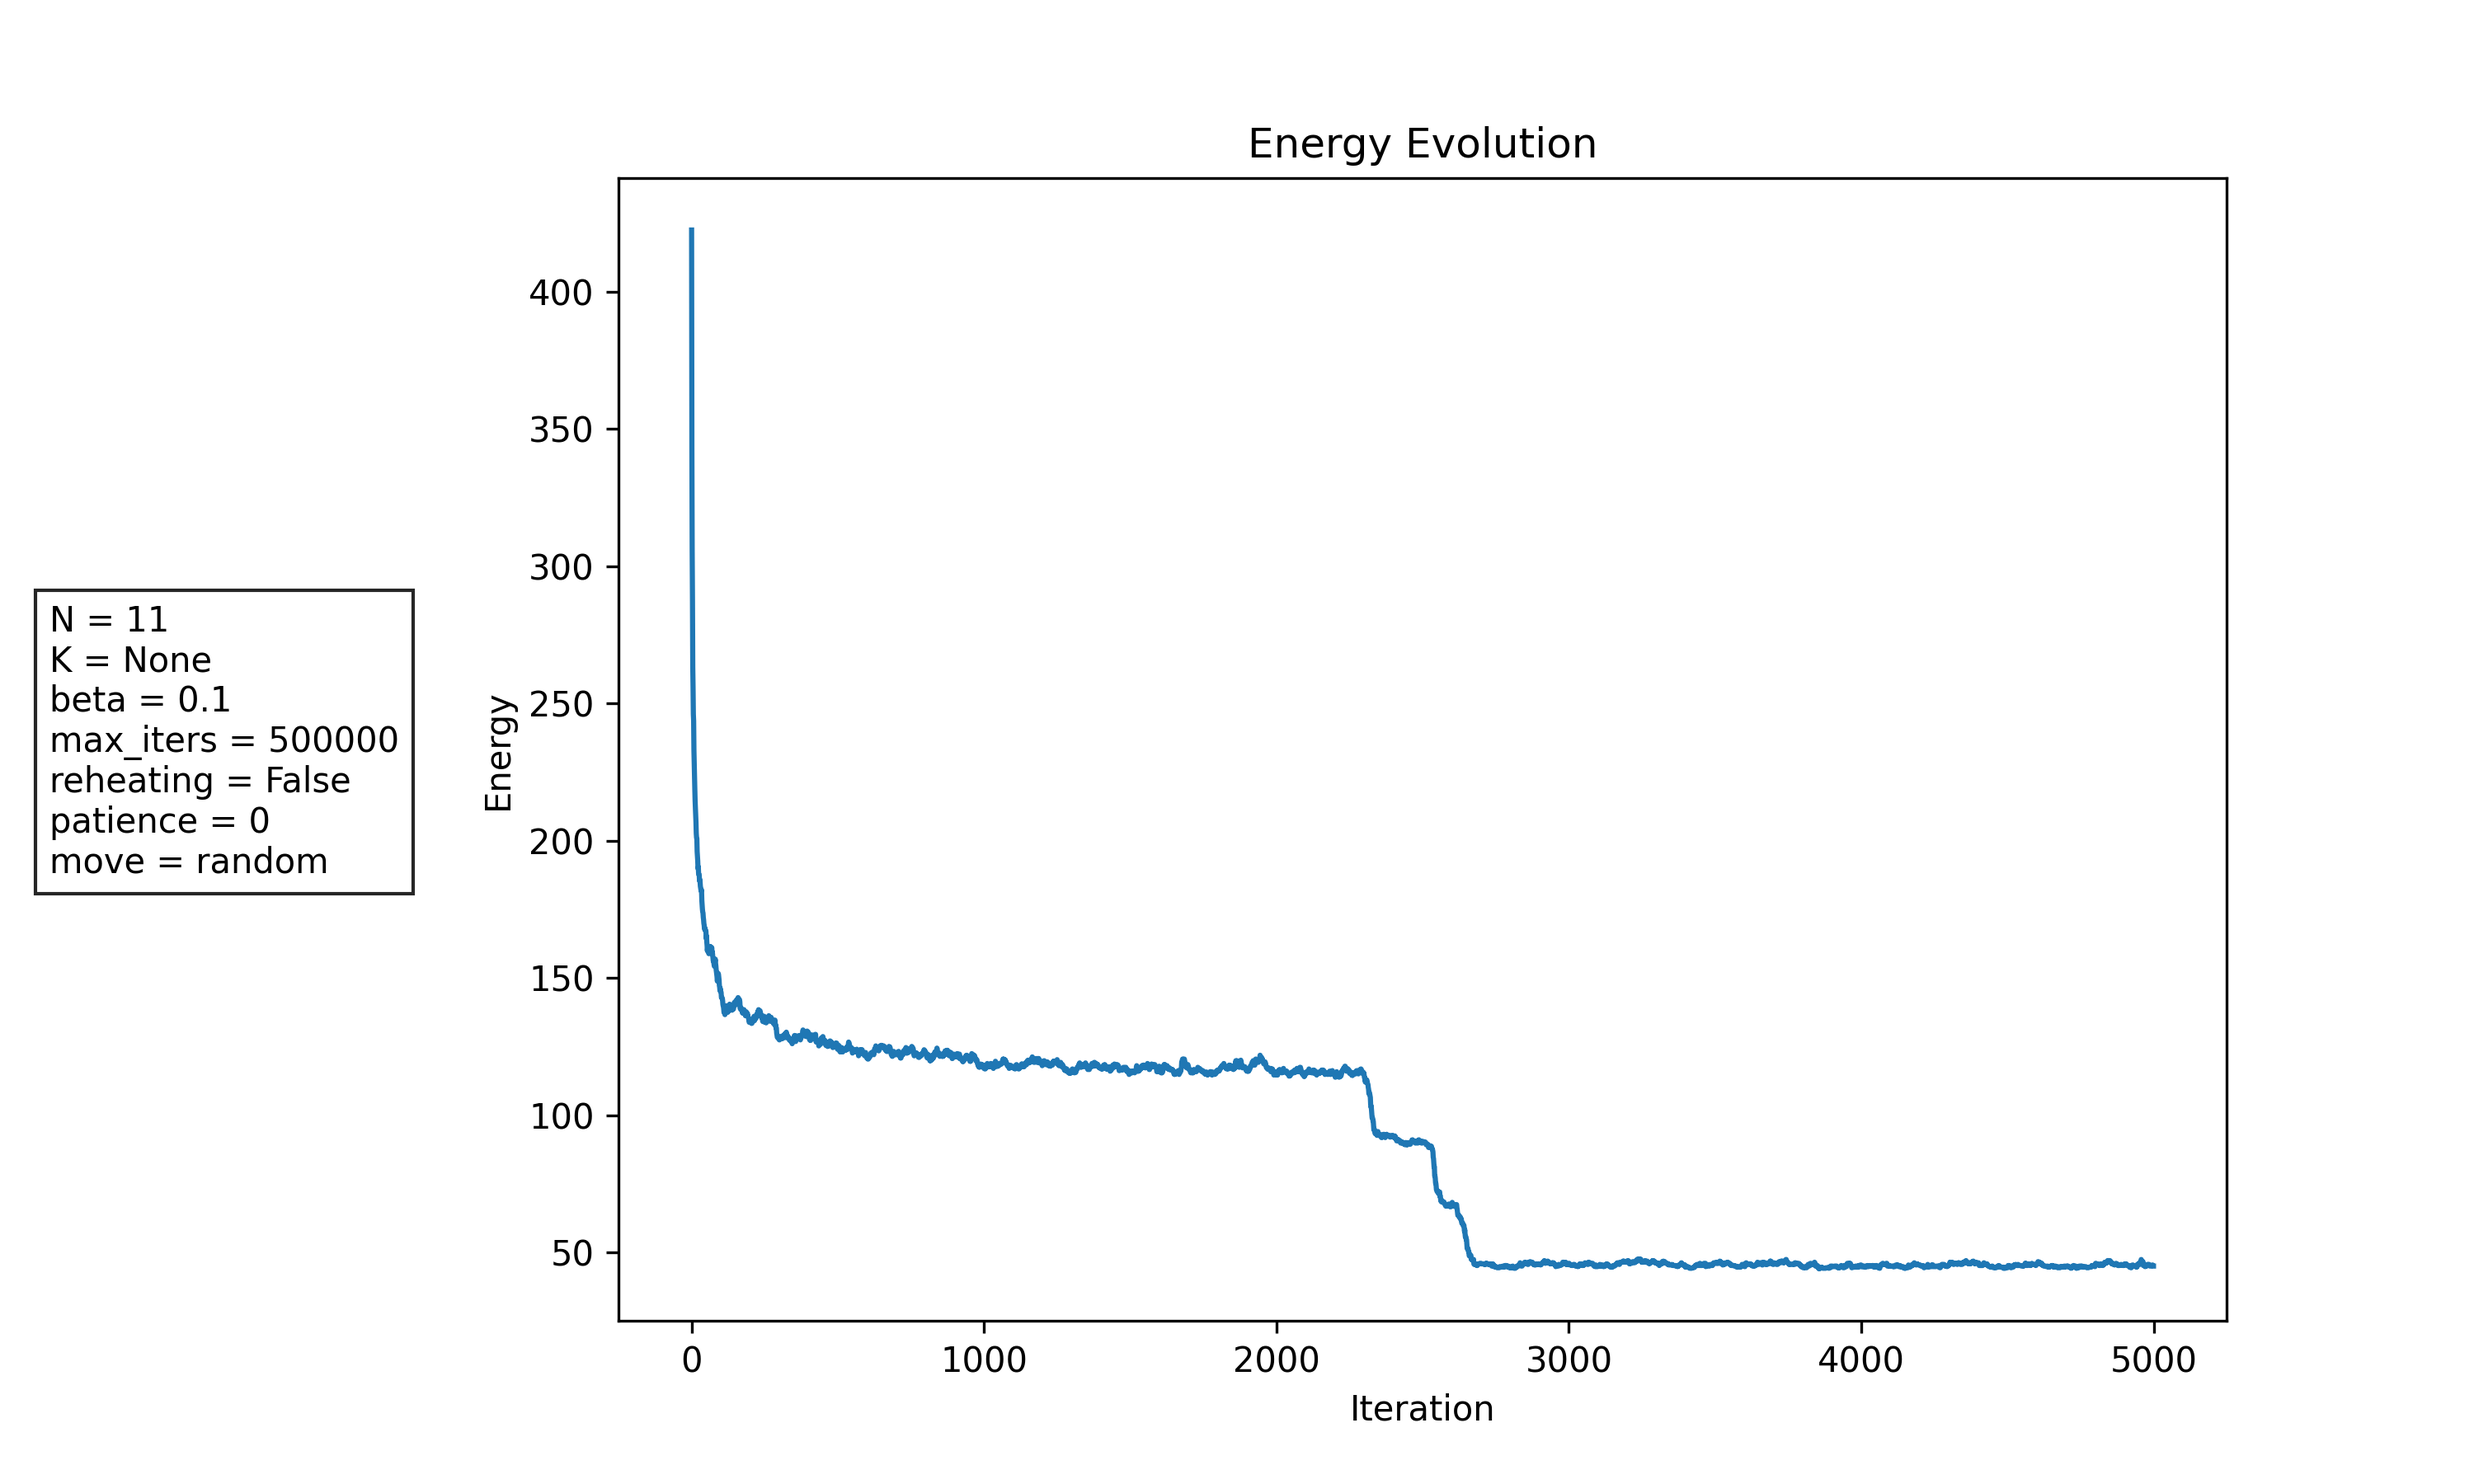
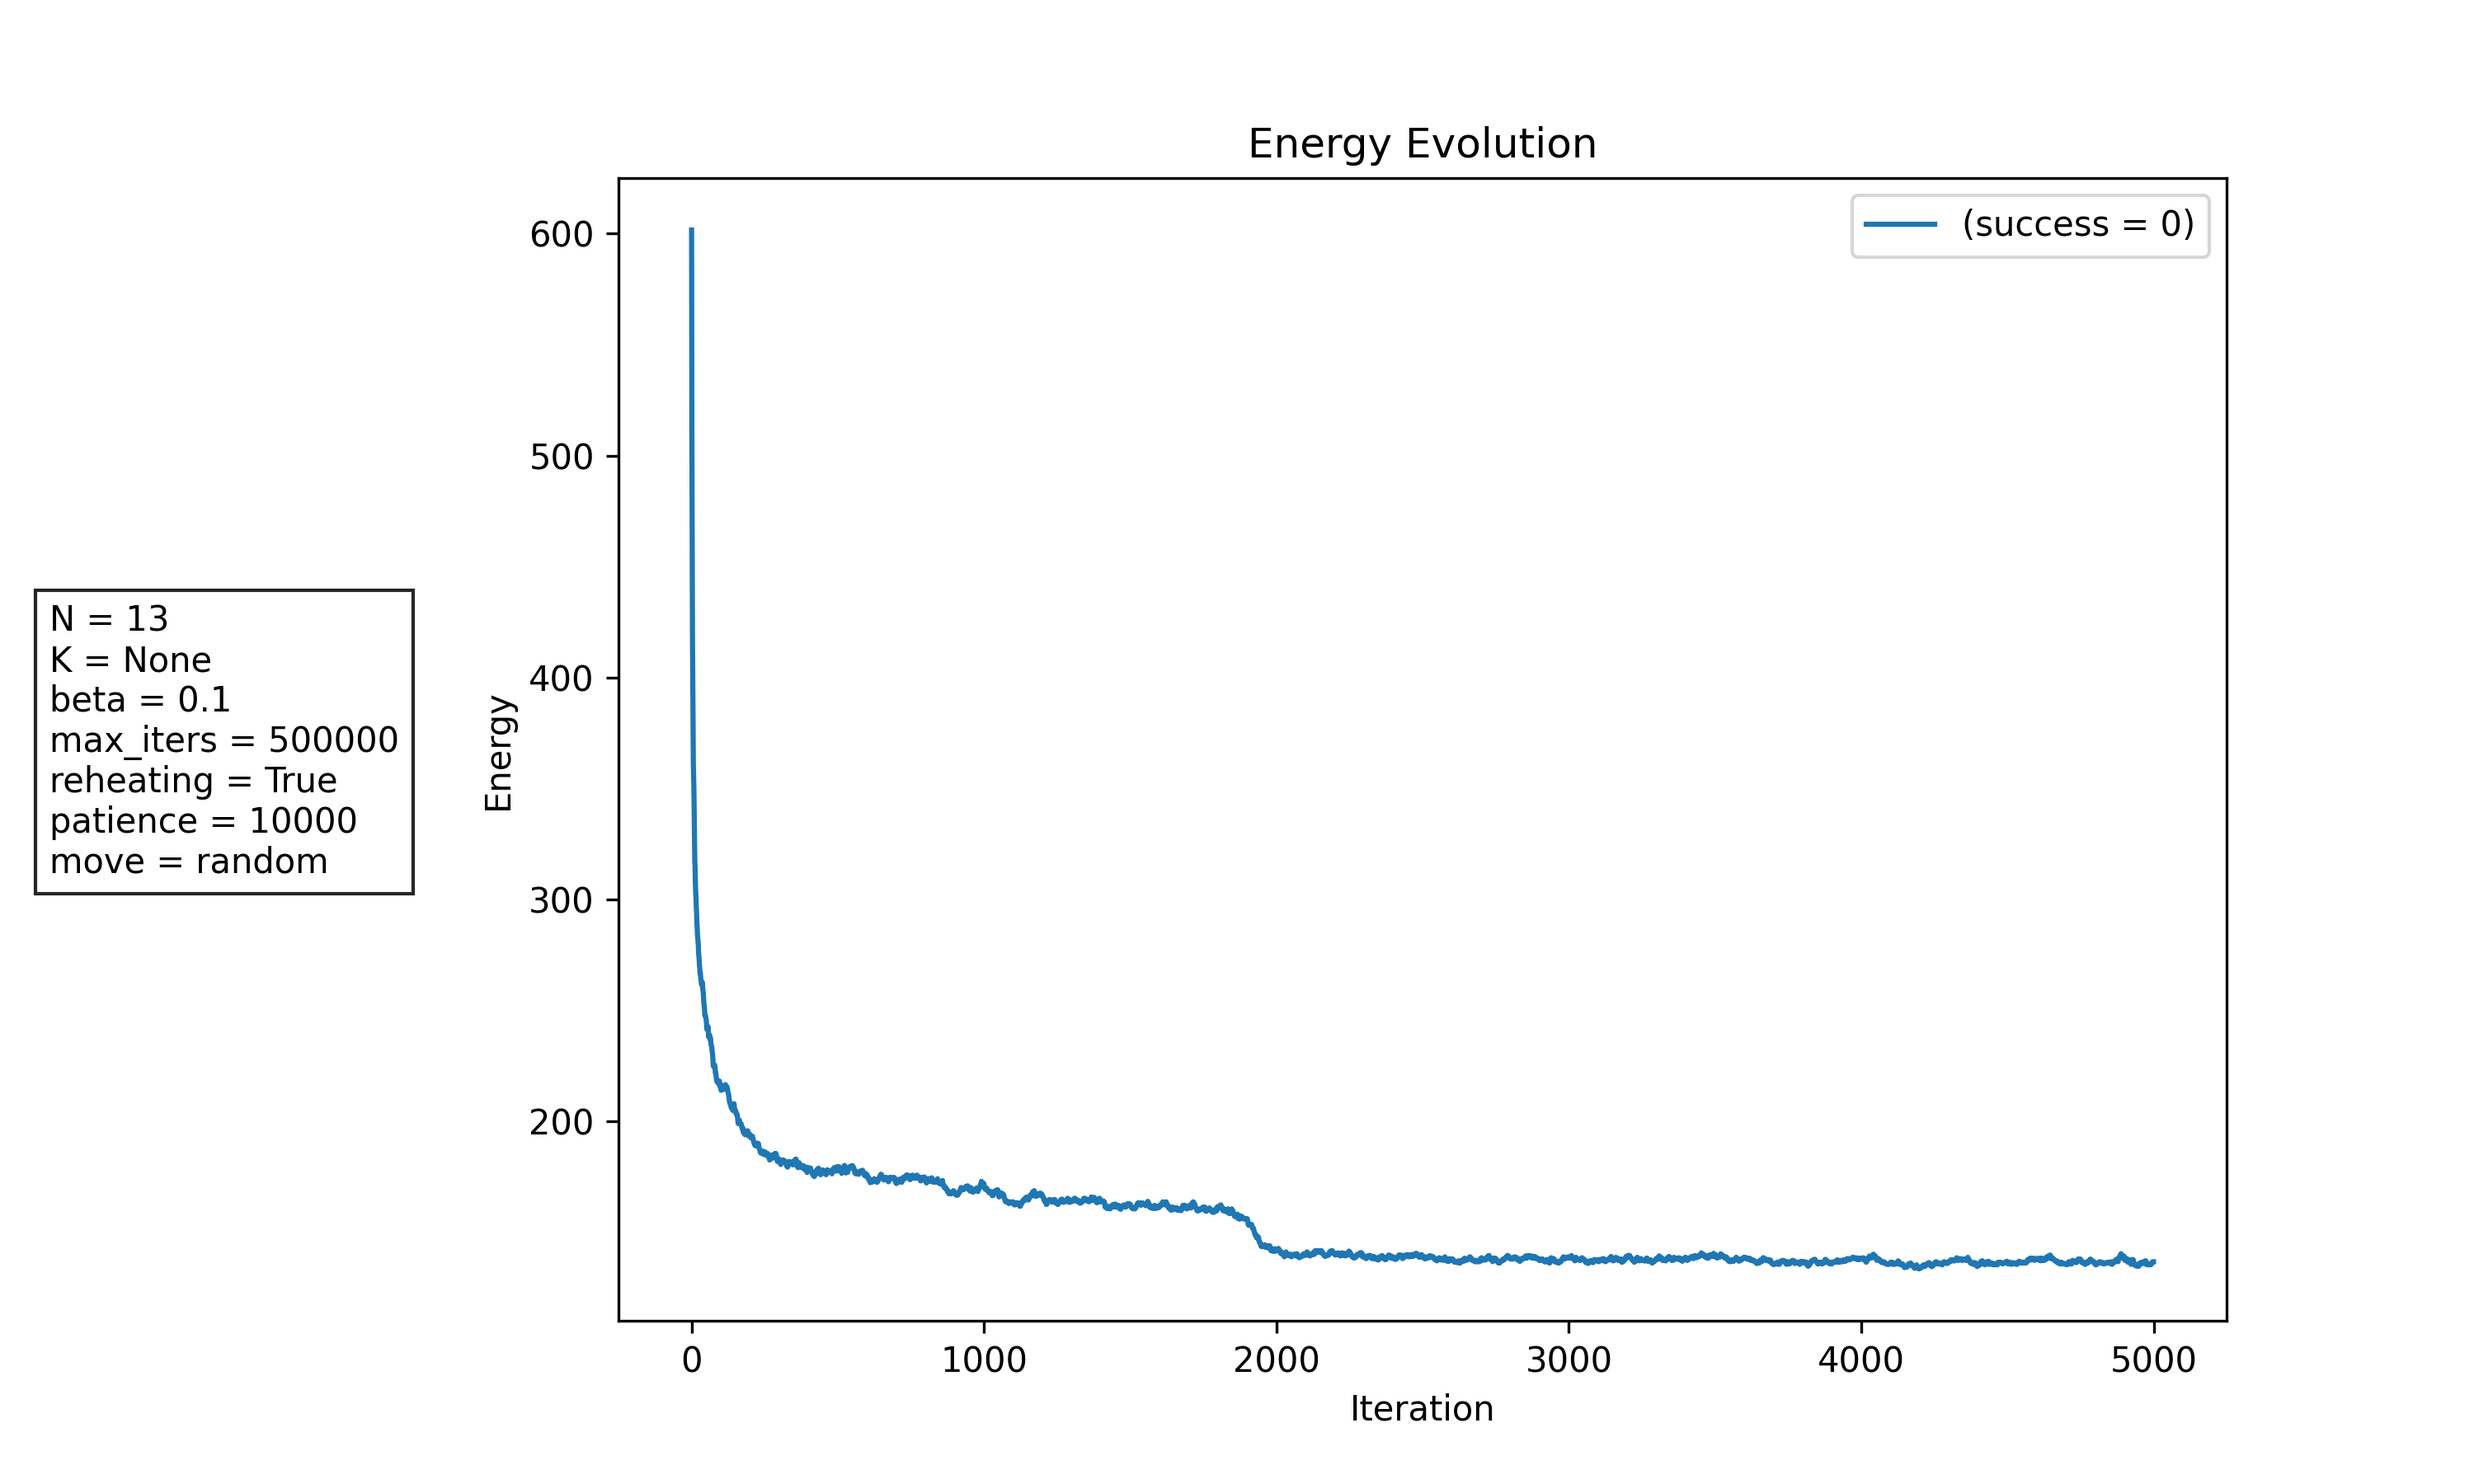
tt

diff --git a/src/utils/runners.py b/src/utils/runners.py
@@ -2,7 +2,7 @@ import torch
 import matplotlib.pyplot as plt
 import N3Queens2DGrid
 from utils.scheduler import *
-from utils.plot import plot_energy_evolution, plot_all_schedulers
+from utils.plot import plot_energy_evolution, plot_all_schedulers, plot_vary_n
 
 from optim.configs import BOConfig
 from optim.bo_optim import optimize_with_bo
@@ -57,6 +57,9 @@ def run_pipeline(args, scheduler, name_proposal_move):
 
     assignments, energies = q_problem.solve()
     
+    if(energies[-1] == 0):
+        print(f"Final configuration that worked:\n{assignments}")
+    
     print(f"\nPipeline complete!")
     print(f"Minimal energy: {min(energies)}")
     
@@ -71,6 +74,7 @@ def multiple_simple_runs(args, scheduler, name_proposal_move, n_runs=5):
     
     for run_idx in range(n_runs):
         print(f"\nStarting run {run_idx + 1}/{n_runs}")
+        
         q_problem = N3Queens2DGrid.N3Queens(
             N=args.N,
             max_iters=args.max_iters,
@@ -82,11 +86,12 @@ def multiple_simple_runs(args, scheduler, name_proposal_move, n_runs=5):
             name_proposal_move=name_proposal_move
         )
 
-        _, energies = q_problem.solve()
+        config, energies = q_problem.solve()
         
         # Record success
         if energies[-1] == 0:
             number_of_successes += 1
+            print(f"Final configuration that worked:\n{config}")
         
         # Pad energies to max_iters if needed, if we get 0 at some point and we exit early
         if len(energies) < args.max_iters:
@@ -102,7 +107,7 @@ def multiple_simple_runs(args, scheduler, name_proposal_move, n_runs=5):
 
     avg_energies = np.nanmean(arr, axis=0).tolist()
     
-    plot_energy_evolution(avg_energies, args, name_proposal_move, filename="average_energy.png")
+    plot_energy_evolution(avg_energies, number_of_successes, args, name_proposal_move, filename="average_energy.png")
     
     return avg_energies, number_of_successes
 
@@ -112,8 +117,6 @@ def run_all_schedulers(args, name_proposal_move, n_runs=5):
     schedulers = [
         ExponentialScheduler(start_beta=args.beta, end_beta=args.end_beta, max_iters=args.max_iters),
         ConstantScheduler(beta=args.beta),
-        # GeometricScheduler(alpha=1.5),
-        # LinearScheduler(a=2.0, b=0.0),
         LogScheduler(alpha=0.2)
     ]
     
@@ -129,7 +132,43 @@ def run_all_schedulers(args, name_proposal_move, n_runs=5):
         
     plot_all_schedulers(energies, args, name_proposal_move, n_runs, filename="all_schedulers_comparison.png")
 
+def vary_n_values(args, scheduler, name_proposal_move, n_min, n_max, n_runs=5):
+    all_minimal_energies = []
+    number_of_successes = np.zeros(n_max - n_min + 1, dtype=int)
+    i = 0
+    
+    for N in range(n_min, n_max + 1):
+        temp = []
+        for run_idx in range(n_runs):
+            print(f"\nStarting run with N={N}, {run_idx + 1}/{n_runs}")
+            
+            q_problem = N3Queens2DGrid.N3Queens(
+                N=N,
+                max_iters=args.max_iters,
+                scheduler=scheduler,
+                beta=args.beta,
+                reheating=args.reheating,
+                patience=args.patience,
+                K=args.K,
+                name_proposal_move=name_proposal_move
+            )
 
+            config, energies = q_problem.solve()
+            
+            # Record success
+            if energies[-1] == 0:
+                number_of_successes[i] += 1
+                print(f"Final configuration that worked:\n{config}")
+                
+            temp.append(min(energies))
+
+        avg_energies = np.mean(temp).tolist()
+        all_minimal_energies.append(avg_energies)
+        i += 1
+        
+        
+    plot_vary_n(all_minimal_energies, number_of_successes, args, name_proposal_move, n_min, n_max, n_runs, filename="vary_n_comparison.png")
+    return None, None
 
 
 

diff --git a/src/utils/plot.py b/src/utils/plot.py
@@ -1,12 +1,14 @@
 import matplotlib.pyplot as plt
 import numpy as np
 
-def plot_energy_evolution(energies, args, name_proposal_move, filename):
+def plot_energy_evolution(energies, successes, args, name_proposal_move, filename):
     """Plot the energy (every 100 element) evolution during the pipeline run."""
     
     fig, ax = plt.subplots(figsize=(10, 6))
 
-    ax.plot(energies[::100])
+    label = f"(success = {successes})"
+    ax.plot(energies[::100], label=label)
+    ax.legend()
     ax.set_xlabel("Iteration")
     ax.set_ylabel("Energy")
     ax.set_title("Energy Evolution")
@@ -85,6 +87,71 @@ def plot_all_schedulers(energies_dict, args, name_proposal_move, n_runs, filenam
 
     plt.savefig(filename, dpi=300)
     plt.close()
+    
+import matplotlib.pyplot as plt
+import numpy as np
+
+def plot_vary_n(all_minimal_energies, number_of_successes, args, name_proposal_move,
+                n_min, n_max, n_runs, filename="vary_n_comparison.png"):
+
+    Ns = np.arange(n_min, n_max + 1)
+
+    fig, ax = plt.subplots(figsize=(10, 6))
+
+    # --- Plot minimal energies ---
+    ax.plot(Ns, all_minimal_energies, marker='o', label="Minimal Energies")
+    ax.set_xlabel("N")
+    ax.set_ylabel("Minimal Energy")
+    ax.set_title(f"Minimal Energy per N ({n_runs} runs each)")
+    ax.legend()
+
+    # --- Add success info below each N ---
+    ymin, ymax = ax.get_ylim()
+    y_text_level = ymin - 0.05*(ymax - ymin)
+
+    for x, s in zip(Ns, number_of_successes):
+        color = "green" if s > 0 else "red"
+        ax.text(
+            x, y_text_level,
+            f"{s}/{n_runs}",
+            ha='center',
+            va='top',
+            fontsize=9,
+            color=color,
+            bbox=dict(facecolor='white', edgecolor=color, boxstyle="round,pad=0.2")
+        )
+
+    # Extend limits to show text box
+    ax.set_ylim(ymin - 0.12*(ymax - ymin), ymax)
+
+    # --- Parameter box on the left ---
+    plt.subplots_adjust(left=0.28)
+
+    patience_display = args.patience if args.reheating else 0
+
+    param_text = (
+        f"n_min = {n_min}\n"
+        f"n_max = {n_max}\n"
+        f"runs = {n_runs}\n"
+        f"K = {args.K}\n"
+        f"beta = {args.beta}\n"
+        f"max_iters = {args.max_iters}\n"
+        f"reheating = {args.reheating}\n"
+        f"patience = {patience_display}\n"
+        f"move = {name_proposal_move}"
+    )
+
+    fig.text(
+        0.02, 0.5, param_text,
+        va="center",
+        fontsize=10,
+        bbox=dict(facecolor="white", alpha=0.85)
+    )
+
+    plt.savefig(filename, dpi=300)
+    plt.close()
+
+
     
 def plot_3d_queens(config, args, filename):
     """Draw a 3D NxNxN chessboard and the N^2 queens as red spheres/dots."""

diff --git a/src/main.py b/src/main.py
@@ -1,5 +1,5 @@
 import argparse
-from utils.runners import run_optimization, run_pipeline, multiple_simple_runs, run_all_schedulers
+from utils.runners import run_optimization, run_pipeline, multiple_simple_runs, run_all_schedulers, vary_n_values
 import utils.scheduler as schedule
 import utils.proposal_move as pmove
 import utils.parsers as parse
@@ -8,7 +8,7 @@ import torch
 
 def main():
     parser = argparse.ArgumentParser(description='N3 Queens Problem Solver')
-    parser.add_argument('--mode', type=str, choices=['optimize', 'all_schedulers', 'run'], default='run',
+    parser.add_argument('--mode', type=str, choices=['optimize', 'all_schedulers', 'vary_n', 'run'], default='run',
                         help='Mode: "optimize" for BO optimization, "run" for single pipeline run')
     parser.add_argument('--N', type=int, default=8, help='Size of the board (N x N x N)')
     parser.add_argument('--max_iters', type=int, default=20000, help='Maximum number of iterations for the model')
@@ -51,11 +51,19 @@ def main():
     elif args.mode == 'all_schedulers':
         
         run_all_schedulers(args, name_proposal_move=args.proposal_move, n_runs=5)
+        
+    elif args.mode == 'vary_n':
+        
+        scheduler = schedule.LogScheduler(alpha=0.2)
+        _, _ = vary_n_values(args, scheduler=scheduler, name_proposal_move=args.proposal_move, n_min=3, n_max=17, n_runs=5)
     
     else:
 
-        scheduler = schedule.ExponentialScheduler(start_beta=args.beta, end_beta=args.end_beta, max_iters=args.max_iters)
-        _, _ = multiple_simple_runs(args, scheduler=scheduler, name_proposal_move=args.proposal_move)
+        #scheduler = schedule.ExponentialScheduler(start_beta=args.beta, end_beta=args.end_beta, max_iters=args.max_iters)
+        scheduler = schedule.LogScheduler(alpha=0.2)
+        #scheduler = schedule.LogisticScheduler(beta_max=args.end_beta, k=10.0, total_iters=args.max_iters)
+        #scheduler = schedule.PowerScheduler(beta_max=args.end_beta, p=1.2, total_iters=args.max_iters)
+        _, _ = multiple_simple_runs(args, scheduler=scheduler, name_proposal_move=args.proposal_move, n_runs=5)
 
 
 

diff --git a/src/utils/scheduler.py b/src/utils/scheduler.py
@@ -81,6 +81,26 @@ class LogScheduler(Scheduler):
     def step(self, model):
         model.beta = self.alpha * np.log(2 * model.t)
         
+class LogisticScheduler(Scheduler):
+    def __init__(self, beta_max, k=10.0, total_iters=500000):
+        self.beta_max = beta_max
+        self.k = k / total_iters
+        self.mid = total_iters / 2
+
+    def step(self, model):
+        t = model.t
+        model.beta = self.beta_max / (1 + np.exp(-self.k * (t - self.mid)))
+        
+class PowerScheduler(Scheduler):
+    def __init__(self, beta_max, p=1.5, total_iters=500000):
+        self.beta_max = beta_max
+        self.p = p
+        self.T = total_iters
+
+    def step(self, model):
+        t = min(model.t, self.T)
+        model.beta = self.beta_max * (t / self.T) ** self.p
+        
     @staticmethod
     def name():
         return "logarithmic"
